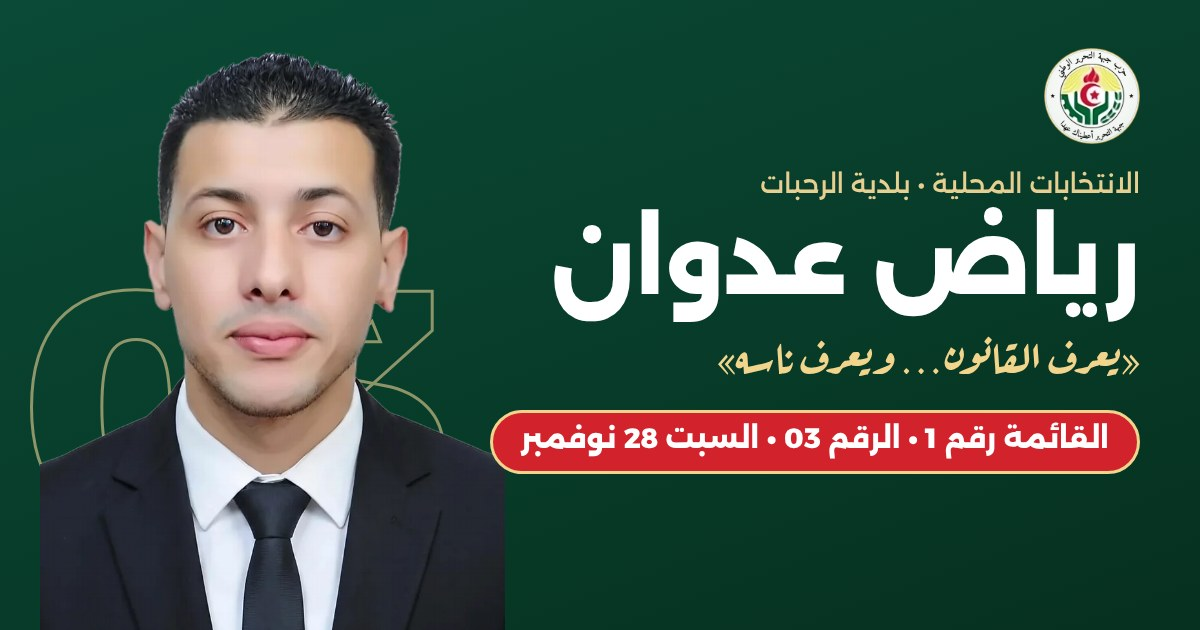
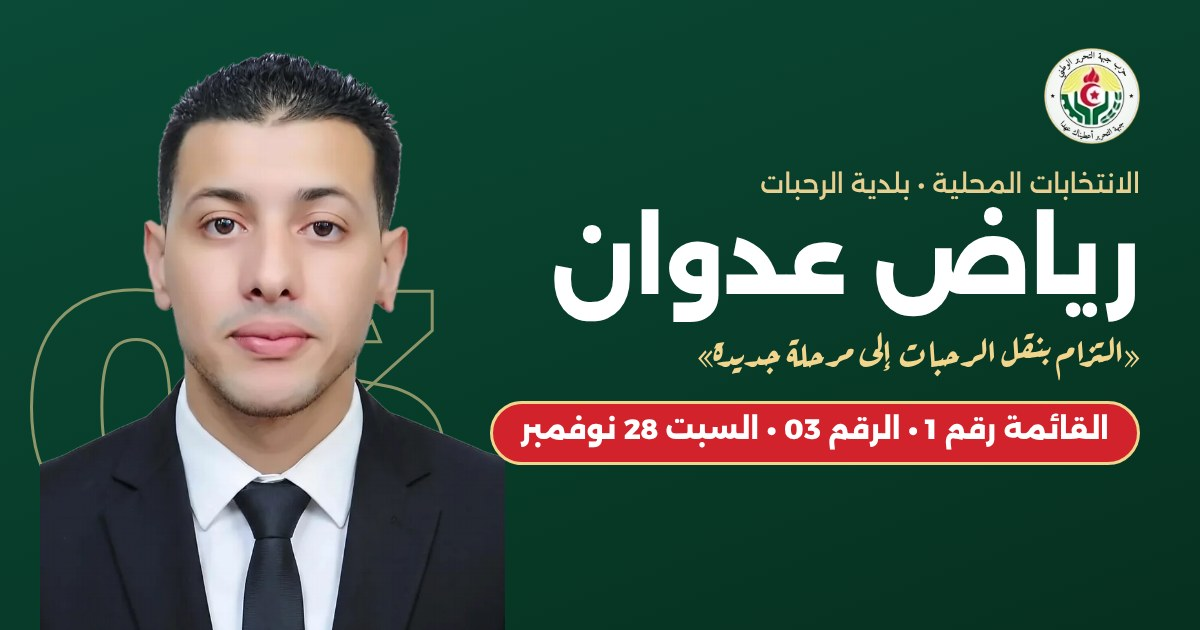
الشعار الجديد: التزام بنقل الرحبات إلى مرحلة جديدة
Claude-Session: https://claude.ai/code/session_01VHvGzs2cNfqQNCPGeWJ2X8

Changed region(s): [[0.4008, 0.6333, 0.9558, 0.754], [0.5858, 0.5127, 0.9558, 0.6032]]

diff --git a/rasail/index.html b/rasail/index.html
@@ -266,9 +266,9 @@ footer ul{margin:0;padding:0 18px 0 0;color:var(--muted);font-size:14px;display:
   var SITE='https://riad-adouane.github.io';
   var END=Date.parse('2026-11-25T00:00:00+01:00');     // campaign closes at the end of Tue 24 Nov, Algeria time
   var TPL=[
-    {id:'t1',name:'رسالة عامة',text:'السلام عليكم {الاسم}، كيف حالك؟\nيوم السبت 28 نوفمبر ننتخب المجلس الشعبي البلدي للرحبات. أنا أساند رياض عدوان: ابن الرحبات، ماستر في الحقوق، «يعرف القانون… ويعرف ناسه».\nصوّت للقائمة رقم 1، وضع علامة أمام اسمه: الرقم 03.\nتعرّف عليه: '+SITE},
-    {id:'t2',name:'قصيرة',text:'{الاسم}، يوم السبت 28 نوفمبر: القائمة رقم 1، وعلامة أمام رياض عدوان، الرقم 03. ابن الرحبات، «يعرف القانون… ويعرف ناسه».\n'+SITE},
-    {id:'t3',name:'للشباب',text:'السلام عليكم {الاسم}، الشباب لازم يكون عندهم صوت في البلدية. رياض عدوان شاب من الرحبات، ماستر في الحقوق، «يعرف القانون… ويعرف ناسه».\nيوم السبت 28 نوفمبر: القائمة رقم 1، وعلامة أمام الرقم 03.\n'+SITE},
+    {id:'t1',name:'رسالة عامة',text:'السلام عليكم {الاسم}، كيف حالك؟\nيوم السبت 28 نوفمبر ننتخب المجلس الشعبي البلدي للرحبات. أنا أساند رياض عدوان: ابن الرحبات، ماستر في الحقوق، وشعاره «التزام بنقل الرحبات إلى مرحلة جديدة».\nصوّت للقائمة رقم 1، وضع علامة أمام اسمه: الرقم 03.\nتعرّف عليه: '+SITE},
+    {id:'t2',name:'قصيرة',text:'{الاسم}، يوم السبت 28 نوفمبر: القائمة رقم 1، وعلامة أمام رياض عدوان، الرقم 03. ابن الرحبات، وشعاره «التزام بنقل الرحبات إلى مرحلة جديدة».\n'+SITE},
+    {id:'t3',name:'للشباب',text:'السلام عليكم {الاسم}، الشباب لازم يكون عندهم صوت في البلدية. رياض عدوان شاب من الرحبات، ماستر في الحقوق، وشعاره «التزام بنقل الرحبات إلى مرحلة جديدة».\nيوم السبت 28 نوفمبر: القائمة رقم 1، وعلامة أمام الرقم 03.\n'+SITE},
     {id:'t5',name:'جرّب التصويت',text:'{الاسم}، جرّب في دقيقة كيف تصوّت لرياض عدوان: ورقة القائمة رقم 1، وعلامة × أمام الرقم 03. التجربة من هاتفك قبل يوم السبت 28 نوفمبر:\n'+SITE+'/jarrib'},
     {id:'t4',name:'تذكير بالعلامة',text:'تذكير مهم {الاسم}: في ورقة القائمة رقم 1 ضع علامة أمام رياض عدوان، الرقم 03، لأن الورقة دون علامة تُحتسب للقائمة فقط ولا تُحتسب له.\nالسبت 28 نوفمبر. '+SITE}
   ];

diff --git a/index.html b/index.html
@@ -5,7 +5,7 @@
 <meta name="viewport" content="width=device-width, initial-scale=1, viewport-fit=cover">
 <meta property="og:type" content="website">
 <meta property="og:title" content="رياض عدوان • القائمة رقم 1 • الرقم 03">
-<meta property="og:description" content="«يعرف القانون… ويعرف ناسه». مترشح للمجلس الشعبي البلدي لبلدية الرحبات. السبت 28 نوفمبر 2026.">
+<meta property="og:description" content="«التزام بنقل الرحبات إلى مرحلة جديدة». مترشح للمجلس الشعبي البلدي لبلدية الرحبات. السبت 28 نوفمبر 2026.">
 <meta property="og:image" content="https://riad-adouane.github.io/og.jpg">
 <meta property="og:url" content="https://riad-adouane.github.io/">
 <meta name="twitter:card" content="summary_large_image">
@@ -291,7 +291,7 @@ footer b{color:#fff}
   <div class="hero-text">
     <p class="eyebrow">الانتخابات المحلية • بلدية الرحبات • ولاية باتنة</p>
     <h1>رياض عدوان</h1>
-    <p class="slogan">«يعرف القانون… ويعرف ناسه»</p>
+    <p class="slogan">«التزام بنقل الرحبات إلى مرحلة جديدة»</p>
     <p class="lead">مترشح للمجلس الشعبي البلدي لبلدية الرحبات، في <b>قائمة حزب جبهة التحرير الوطني رقم 1</b>، بالرقم <b class="num">03</b>.</p>
     <div class="btns"><a class="btn red" href="#vote">كيف تصوّت لي؟</a><a class="btn ghost" href="#vision">رؤيتي للرحبات</a></div>
     <div class="chips">
@@ -450,7 +450,7 @@ footer b{color:#fff}
     <div class="card office"><h3>مداومة أولاد دريس</h3><p>مركز البلدية، أمام مكتب بريد الجزائر.</p><a class="map" href="https://www.google.com/maps?q=35.7124181,5.6554354" target="_blank" rel="noopener">افتح الموقع في الخريطة ←</a></div>
   </div>
   <div class="share">
-    <div><h3>شارك الرسالة مع أهلك وجيرانك</h3><p id="sharetext">يوم السبت 28 نوفمبر 2026، صوّتوا للقائمة رقم 1، قائمة حزب جبهة التحرير الوطني، وضعوا علامة أمام رياض عدوان رقم 03. «يعرف القانون… ويعرف ناسه».</p><p id="cpmsg" aria-live="polite"></p></div>
+    <div><h3>شارك الرسالة مع أهلك وجيرانك</h3><p id="sharetext">يوم السبت 28 نوفمبر 2026، صوّتوا للقائمة رقم 1، قائمة حزب جبهة التحرير الوطني، وضعوا علامة أمام رياض عدوان رقم 03. «التزام بنقل الرحبات إلى مرحلة جديدة».</p><p id="cpmsg" aria-live="polite"></p></div>
     <div class="acts"><a class="btn wa" id="wa" href="#" target="_blank" rel="noopener">أرسل عبر واتساب</a><button class="btn cp" id="cp" type="button">انسخ النص</button></div>
   </div>
   <div class="card contact" id="contact">
